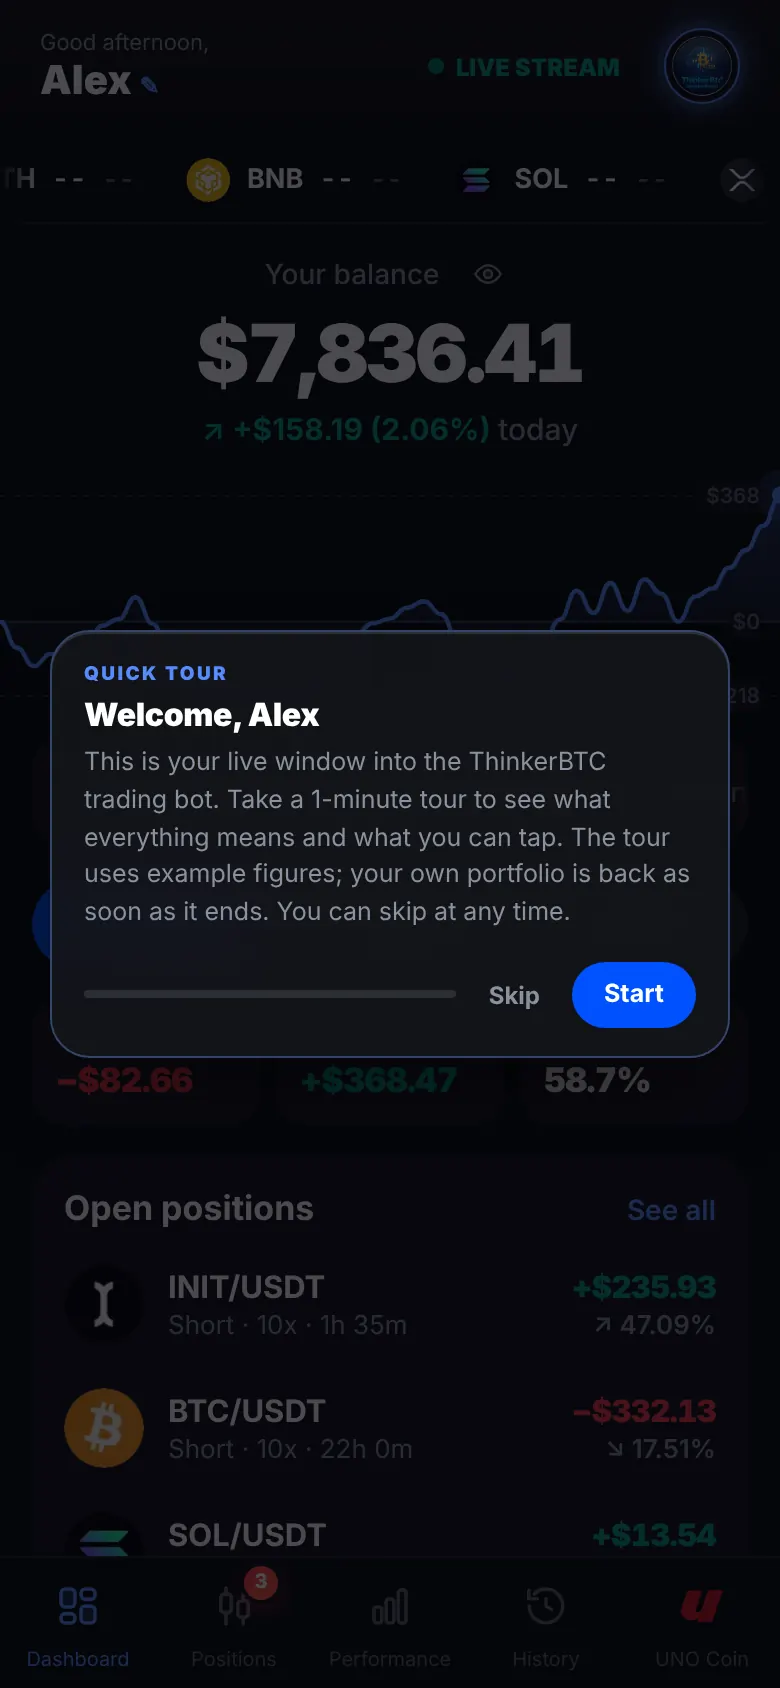
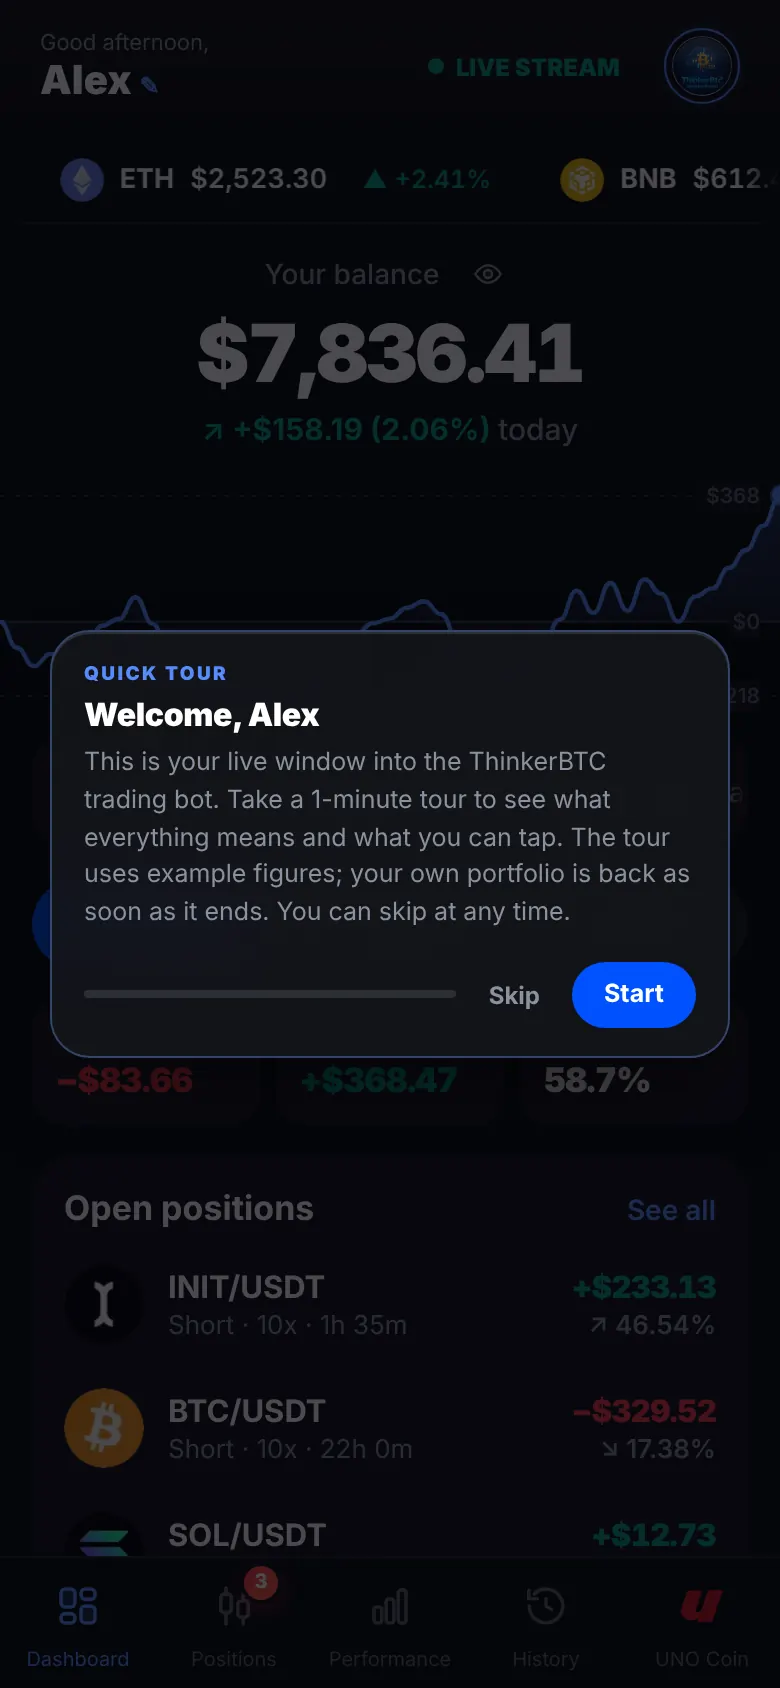
ThinkerBTC screenshots: market tape with prices
Claude-Session: https://claude.ai/code/session_01BcwcTGjLZU3UFJ95aCQatB

diff --git a/index.html b/index.html
@@ -512,33 +512,33 @@
             </div>
           </div>
           <div class="shot" style="width:100%;max-width:300px;margin-inline:auto">
-            <img src="thinkerbtc/dashboard-home-phone-dark.webp?v=2" width="780" height="1688" alt="ThinkerBTC operator dashboard" data-bilingual-en="ThinkerBTC operator dashboard" data-bilingual-tr="ThinkerBTC operatör paneli" loading="lazy">
+            <img src="thinkerbtc/dashboard-home-phone-dark.webp?v=3" width="780" height="1688" alt="ThinkerBTC operator dashboard" data-bilingual-en="ThinkerBTC operator dashboard" data-bilingual-tr="ThinkerBTC operatör paneli" loading="lazy">
           </div>
         </article>
         <div class="gal">
           <article class="gcard">
-            <div class="gimg"><img src="thinkerbtc/dashboard-positions-phone-light.webp?v=2" width="780" height="1688" alt="Operator dashboard positions" data-bilingual-en="Operator dashboard positions" data-bilingual-tr="Operatör paneli pozisyonlar" loading="lazy"></div>
+            <div class="gimg"><img src="thinkerbtc/dashboard-positions-phone-light.webp?v=3" width="780" height="1688" alt="Operator dashboard positions" data-bilingual-en="Operator dashboard positions" data-bilingual-tr="Operatör paneli pozisyonlar" loading="lazy"></div>
             <div class="gtxt">
               <h4 data-bilingual-en="Control every trade" data-bilingual-tr="Her işlemi yönetin">Control every trade</h4>
               <p data-bilingual-en="Edit TP / SL, close a trade, or switch trailing on and off per position." data-bilingual-tr="TP / SL düzenleyin, işlemi kapatın ya da trailing'i pozisyon bazında açıp kapatın.">Edit TP / SL, close a trade, or switch trailing on and off per position.</p>
             </div>
           </article>
           <article class="gcard">
-            <div class="gimg"><img src="thinkerbtc/portal-dashboard-phone-dark.webp?v=2" width="780" height="1688" alt="Investor portal dashboard" data-bilingual-en="Investor portal dashboard" data-bilingual-tr="Yatırımcı portalı ana ekran" loading="lazy"></div>
+            <div class="gimg"><img src="thinkerbtc/portal-dashboard-phone-dark.webp?v=3" width="780" height="1688" alt="Investor portal dashboard" data-bilingual-en="Investor portal dashboard" data-bilingual-tr="Yatırımcı portalı ana ekran" loading="lazy"></div>
             <div class="gtxt">
               <h4 data-bilingual-en="An investor portal for your backers" data-bilingual-tr="Yatırımcıların için portal">An investor portal for your backers</h4>
               <p data-bilingual-en="A read-only app investors can install on their phone: portfolio value, open P&amp;L, every trade and how the bot is doing." data-bilingual-tr="Yatırımcıların telefonuna kurabileceği salt okunur uygulama: portföy değeri, açık kâr/zarar, her işlem ve botun durumu.">A read-only app investors can install on their phone: portfolio value, open P&amp;L, every trade and how the bot is doing.</p>
             </div>
           </article>
           <article class="gcard">
-            <div class="gimg"><img src="thinkerbtc/portal-positions-phone-light.webp?v=2" width="780" height="1688" alt="Investor portal open positions" data-bilingual-en="Investor portal open positions" data-bilingual-tr="Yatırımcı portalı açık pozisyonlar" loading="lazy"></div>
+            <div class="gimg"><img src="thinkerbtc/portal-positions-phone-light.webp?v=3" width="780" height="1688" alt="Investor portal open positions" data-bilingual-en="Investor portal open positions" data-bilingual-tr="Yatırımcı portalı açık pozisyonlar" loading="lazy"></div>
             <div class="gtxt">
               <h4 data-bilingual-en="Live positions" data-bilingual-tr="Canlı pozisyonlar">Live positions</h4>
               <p data-bilingual-en="Every open trade with entry, take-profit, stop-loss and where the trailing stop sits. Tap a card for its chart." data-bilingual-tr="Her açık işlem: giriş, kâr al, zarar durdur ve trailing stop'un yeri. Grafik için karta dokunun.">Every open trade with entry, take-profit, stop-loss and where the trailing stop sits. Tap a card for its chart.</p>
             </div>
           </article>
           <article class="gcard">
-            <div class="gimg"><img src="thinkerbtc/portal-tour-phone-dark.webp?v=2" width="780" height="1688" alt="Investor portal guided tour" data-bilingual-en="Investor portal guided tour" data-bilingual-tr="Yatırımcı portalı rehberli tur" loading="lazy"></div>
+            <div class="gimg"><img src="thinkerbtc/portal-tour-phone-dark.webp?v=3" width="780" height="1688" alt="Investor portal guided tour" data-bilingual-en="Investor portal guided tour" data-bilingual-tr="Yatırımcı portalı rehberli tur" loading="lazy"></div>
             <div class="gtxt">
               <h4 data-bilingual-en="A guided tour for new investors" data-bilingual-tr="Yeni yatırımcılar için rehberli tur">A guided tour for new investors</h4>
               <p data-bilingual-en="First-time visitors get a one-minute walkthrough of every screen; returning ones see what is new." data-bilingual-tr="İlk kez gelenler her ekranı bir dakikada tanır; tekrar gelenler yenilikleri görür.">First-time visitors get a one-minute walkthrough of every screen; returning ones see what is new.</p>
